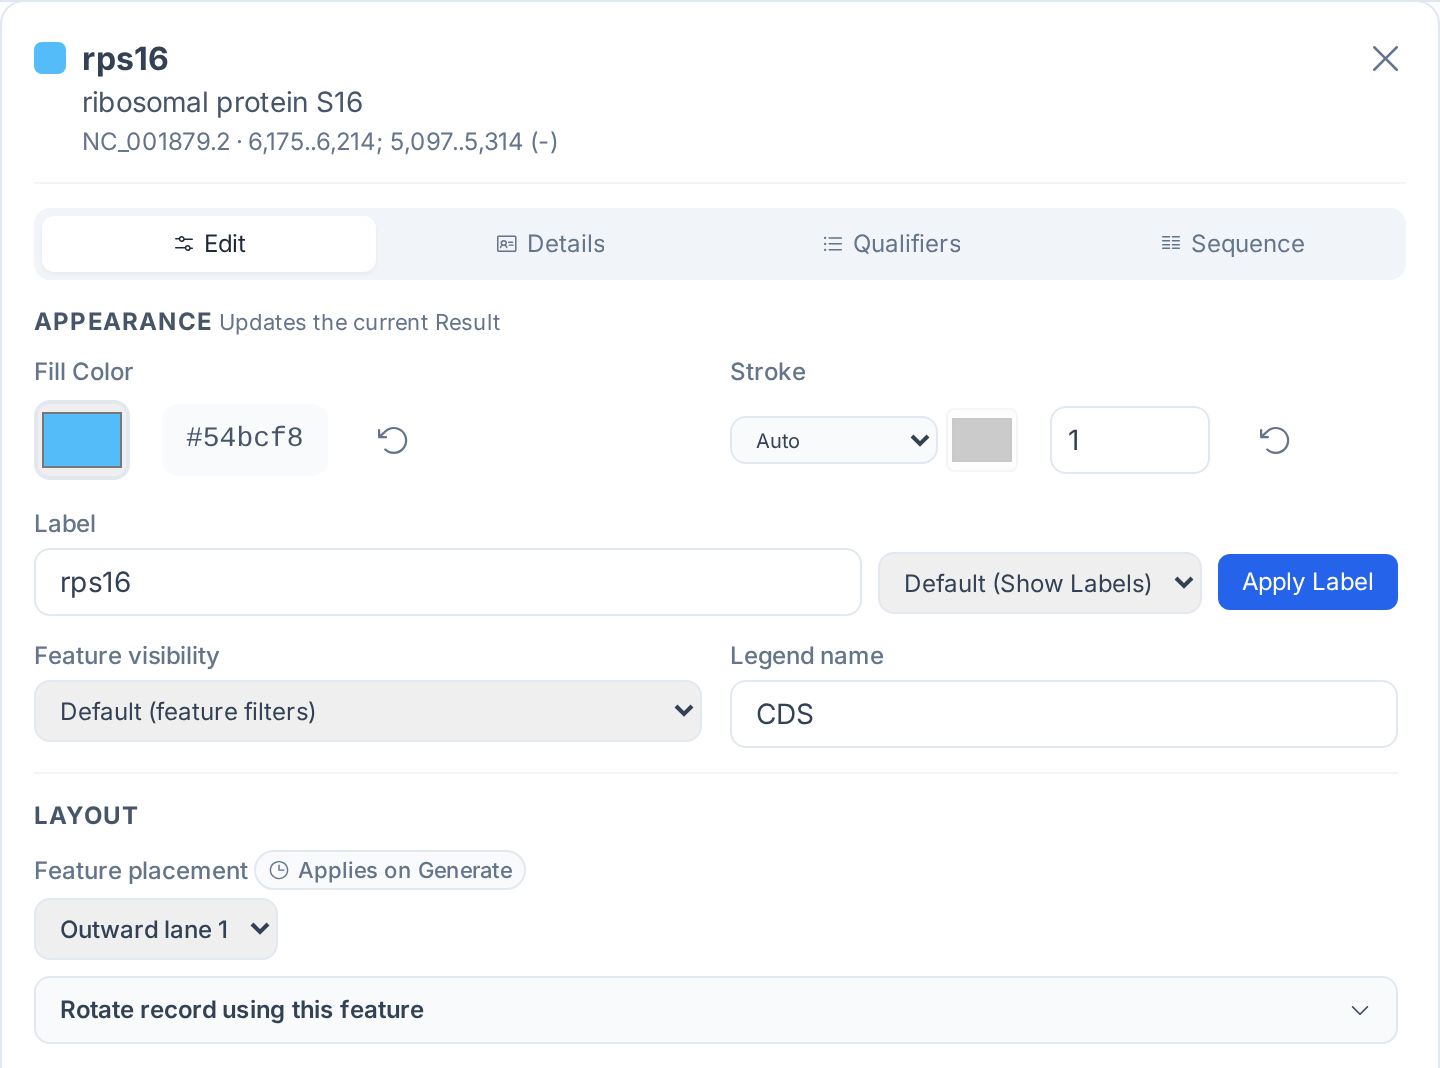
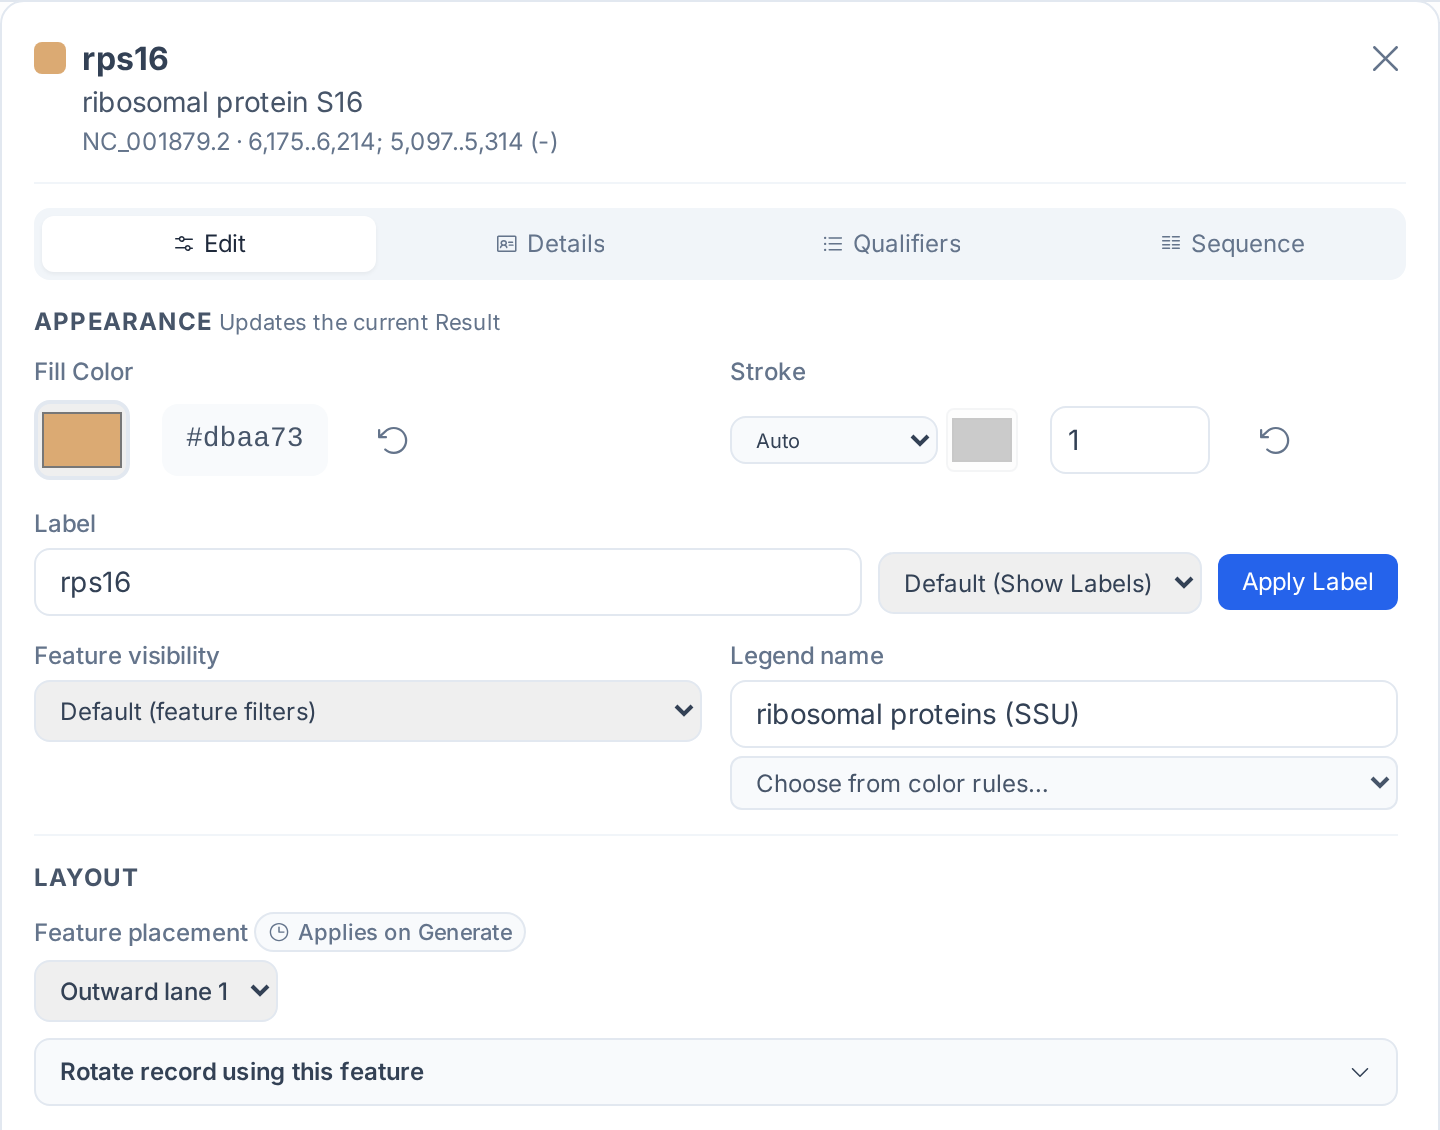
Keep a Specific rules import when another file is uploaded meanwhile
A Specific rules import read the rule inputs when its file was selected,
and those inputs include the other auxiliary files. A Priority File (or
Default colors, Whitelist, Blacklist) uploaded while the import still
applied made it stale, and it resolved without applying its rules or
reporting anything, so Generate drew without them (OV-1205; H-GUI-16
showed rps16 in the default CDS color). The import now reads the rule
inputs when it applies, after the imports queued before it; inputs that
change while it applies run it again, and an import that still cannot
apply unselects its file.

Review follow-ups of #1186: the pending auxiliary imports get one owner,
createAuxiliaryFileImports, which the composition root creates before
Generate, Save/Load and the watchers read it (no forward closure, R13);
the pinning Playwright case reads the request build start instead of a
5-second Worker check and asserts the Specific rules are applied. The
H-GUI-16 feature placement image is regenerated with its flow.

diff --git a/gbdraw/web/js/app/watchers.js b/gbdraw/web/js/app/watchers.js
@@ -1,7 +1,7 @@
 // @ts-check
 /** @import { DrawingState, LinearSeq, SessionBusy } from '../state.js' */
 /** @import { MountedResultContext, MountedResultContextOptions } from './preview-runtime.js' */
-/** @import { RulePreparation } from './rule-matching.js' */
+/** @import { RulePreparation, RuleInputsSnapshot } from './rule-matching.js' */
 import { normalizeUserFacingError } from '../utils/error-normalization.js';
 import {
   parseBlacklistWords,
@@ -43,6 +43,34 @@ export const runRecordDiscoveryWatcher = async ({
 };
 
 /**
+ * The auxiliary file imports still applying (OV-1193). The file watchers add
+ * them; Save and Load read whether one is pending, and Generate waits for them.
+ * The composition root creates it before both readers.
+ * @typedef {object} AuxiliaryFileImports
+ * @property {Map<FileLike, Promise<boolean>>} pending Each selected file's import, until it settles.
+ * @property {(file: FileLike) => Promise<boolean> | undefined} wait The import of `file`, while it applies.
+ * @property {() => boolean} isPending
+ * @property {() => Promise<void>} settle Waits until no import is pending, including one that starts meanwhile.
+ */
+
+/**
+ * @param {<T extends object>(target: T) => T} reactive Vue `reactive`, so the readers' computeds follow the imports.
+ * @returns {AuxiliaryFileImports}
+ */
+export const createAuxiliaryFileImports = (reactive) => {
+  /** @type {Map<FileLike, Promise<boolean>>} */
+  const pending = reactive(new Map());
+  return {
+    pending,
+    wait: (file) => pending.get(file),
+    isPending: () => pending.size > 0,
+    settle: async () => {
+      while (pending.size > 0) await Promise.allSettled([...pending.values()]);
+    }
+  };
+};
+
+/**
  * The members of the preview owner's runtime (app/preview-runtime.js) that the
  * mounted-Result watcher reads.
  * @typedef {object} WatchersPreviewRuntime
@@ -55,6 +83,7 @@ export const runRecordDiscoveryWatcher = async ({
  * @typedef {object} WatchersOptions
  * @property {Record<string, any>} state App state (state.js; not yet typed).
  * @property {RulePreparation} rulePreparation
+ * @property {AuxiliaryFileImports} auxiliaryFileImports The imports still applying, which the file watchers add.
  * @property {(value?: any) => { value: any }} ref Vue `ref`.
  * @property {(getter: () => any) => { readonly value: any }} computed Vue `computed`.
  * @property {(source: any, callback: (...args: any[]) => any, options?: Record<string, any>) => any} watch Vue `watch`.
@@ -86,6 +115,7 @@ export const runRecordDiscoveryWatcher = async ({
 export const setupWatchers = ({
   state,
   rulePreparation,
+  auxiliaryFileImports,
   ref, computed, watch,
   nextTick,
   onMounted,
@@ -333,8 +363,7 @@ export const setupWatchers = ({
     const busy = state.sessionOperationAvailability?.();
     return busy || (canRetryAuxiliaryImportFailure.value ? auxiliaryImportFailure.value.retry() : false);
   };
-  /** @type {Map<FileLike, Promise<boolean>>} */
-  const pendingFileImports = window.Vue.reactive(new Map());
+  const pendingFileImports = auxiliaryFileImports.pending;
   /** @type {Promise<any>} */
   let fileImportApplications = Promise.resolve();
   /** @type {Map<string, FileLike | null | undefined>} */
@@ -358,13 +387,15 @@ export const setupWatchers = ({
     restoredFileSelections.delete(key);
     if (restored) return;
     if (semanticFileWatchersSuppressed.value || !file) return;
-    const ruleContext = key === 't_color' ? rulePreparation.snapshot() : null;
-    const isCurrent = () => files[key] === file && !semanticFileWatchersSuppressed.value
-      && !state.sessionOperationAvailability?.()
-      && (!ruleContext || rulePreparation.isCurrent(ruleContext));
+    const isSelected = () => files[key] === file && !semanticFileWatchersSuppressed.value
+      && !state.sessionOperationAvailability?.();
+    // The rule inputs the Specific rules import applies to, read as it applies.
+    /** @type {RuleInputsSnapshot | null} */
+    let ruleContext = null;
+    const isCurrent = () => isSelected() && (!ruleContext || rulePreparation.isCurrent(ruleContext));
     const previousError = errorLog.value;
     const retainFailure = () => {
-      auxiliaryImportFailure.value = { error: errorLog.value, key, selection: files[key], snapshot: ruleContext ? rulePreparation.snapshot() : null,
+      auxiliaryImportFailure.value = { error: errorLog.value, key, selection: files[key], snapshot: key === 't_color' ? rulePreparation.snapshot() : null,
         retry: async () => {
           if (files[key] === file) return applyFileImport(key, apply, file, previousFile);
           files[key] = file;
@@ -375,13 +406,21 @@ export const setupWatchers = ({
     const pending = readFileText(file).then((text) => {
       // Reads may finish out of order; serialize only their live application.
       const application = fileImportApplications.then(async () => {
-        if (!isCurrent()) return false;
-        if (await apply(text, isCurrent) === false && isCurrent()) {
+        if (!isSelected()) return false;
+        // OV-1205: the rule inputs are read when the import applies, after the
+        // imports queued before it, so a file uploaded meanwhile does not make
+        // it stale. Inputs that change while it applies run it again on the
+        // current ones; an import that cannot apply unselects its file.
+        for (let attempt = 0; ; attempt += 1) {
+          ruleContext = key === 't_color' ? rulePreparation.snapshot() : null;
+          if (await apply(text, isCurrent) !== false || !isSelected()) break;
+          if (!isCurrent() && attempt < 2) continue;
           restoredFileSelections.set(key, previousFile);
           files[key] = previousFile;
           if (errorLog.value !== previousError) retainFailure();
           return false;
-        } else if (files[key] === file && errorLog.value === auxiliaryImportFailure.value?.error) {
+        }
+        if (files[key] === file && errorLog.value === auxiliaryImportFailure.value?.error) {
           errorLog.value = null;
           auxiliaryImportFailure.value = null;
         }
@@ -390,7 +429,7 @@ export const setupWatchers = ({
       fileImportApplications = application.catch(() => {});
       return application;
     }).catch((error) => {
-      if (isCurrent() && errorLog.value === previousError) {
+      if (isSelected() && errorLog.value === previousError) {
         errorLog.value = normalizeUserFacingError(error, { operation: key === 't_color' ? 'evaluateRules' : 'unknown', stage: 'resource-staging' });
         restoredFileSelections.set(key, previousFile);
         files[key] = previousFile;
@@ -409,14 +448,6 @@ export const setupWatchers = ({
    * @param {FileImportApply} apply
    */
   const watchFileImport = (key, apply) => watch(() => files[key], (file, previousFile) => applyFileImport(key, apply, file, previousFile));
-  /** @param {FileLike} file */
-  const waitForAuxiliaryFileImport = (file) => pendingFileImports.get(file);
-  // Generate reads the drawing once every import still applying has settled,
-  // including one that starts meanwhile (OV-1193).
-  /** @returns {Promise<void>} */
-  const settleAuxiliaryFileImports = async () => {
-    while (pendingFileImports.size > 0) await Promise.allSettled([...pendingFileImports.values()]);
-  };
 
   watchFileImport('d_color', (text) => {
     const drawing = state.activeDrawing();
@@ -555,5 +586,5 @@ export const setupWatchers = ({
       console.warn('Could not load browser palette definitions.', normalizeUserFacingError(error, { stage: 'initialization' }));
     }
   });
-  return { waitForAuxiliaryFileImport, settleAuxiliaryFileImports, auxiliaryFileImportPending: () => pendingFileImports.size > 0, canRetryAuxiliaryImportFailure, retryAuxiliaryImportFailure, resetModeTransientUi };
+  return { canRetryAuxiliaryImportFailure, retryAuxiliaryImportFailure, resetModeTransientUi };
 };

diff --git a/tests/web/auxiliary-file-history.playwright.spec.js b/tests/web/auxiliary-file-history.playwright.spec.js
@@ -67,7 +67,8 @@ test('a slow earlier specific table cannot overwrite a later uploaded table', as
 
 // H-GUI-16: a Specific rules import still applying keeps History's checkpoint
 // open, so a Priority File uploaded meanwhile is no History step; Generate
-// pressed at once must still wait for both imports.
+// pressed at once must still wait for both imports (OV-1193), and the Priority
+// upload must not discard the Specific rules import (OV-1205).
 test('Generate waits for the Specific rules and Priority File imports still applying (OV-1193)', async ({ browser }) => {
   const page = await load(browser);
   await page.evaluate(() => {
@@ -92,6 +93,8 @@ test('Generate waits for the Specific rules and Priority File imports still appl
   await upload('Specific rules file', 'held-rules.tsv', 'CDS\tproduct\tNADH\t#123456\tImported\n');
   await upload('Priority File (TSV)', 'held-priority.tsv', 'CDS\tgene,product\n');
   const key = await page.evaluate(async () => (await import('./js/state.js')).state.resultGenerationKey.value);
+  const generateStarts = () => page.evaluate(() => window.__MODE_EVENTS__.filter((event) => event.name === 'generate-start').length);
+  const startsBefore = await generateStarts();
   await page.getByRole('button', { name: 'Generate Diagram', exact: true }).click();
   // The click is honoured: Generate shows its processing state while the imports apply.
   await expect.poll(() => page.evaluate(() => window.__GBDRAW_APP__.processing)).toBe(true);
@@ -100,16 +103,21 @@ test('Generate waits for the Specific rules and Priority File imports still appl
     window.__RELEASE__['held-rules.tsv']();
     await a.waitForAuxiliaryFileImport(a.files.t_color);
   });
-  // Without the wait, Generate sends its request once the rules apply (within
-  // seconds); it must send nothing while the Priority File still applies.
-  await page.waitForFunction(() => window.__RUN_RESOURCES__.length > 0, null, { timeout: 5000 }).catch(() => {});
-  expect(await page.evaluate(() => window.__RUN_RESOURCES__)).toEqual([]);
+  // Generate starts building its request only after the Priority File applies;
+  // one that did not wait would start once the rules applied (`generate-start`).
+  await page.waitForFunction((before) => window.__MODE_EVENTS__.filter((event) => event.name === 'generate-start').length > before,
+    startsBefore, { timeout: 5000 }).catch(() => {});
+  expect(await generateStarts()).toBe(startsBefore);
   await page.evaluate(() => window.__RELEASE__['held-priority.tsv']());
   await expect.poll(() => page.evaluate(async () => {
     const { state } = await import('./js/state.js');
     return { key: state.resultGenerationKey.value, processing: state.processing.value, error: state.errorLog.value };
   }), { timeout: 180000 }).toEqual({ key: key + 1, processing: false, error: null });
   // The first render request is the Generate's; a later rerender may follow it.
-  expect(await page.evaluate(() => window.__RUN_RESOURCES__[0])).toEqual(expect.arrayContaining(['qualifier-priority-file']));
-  expect(await page.evaluate(() => JSON.parse(JSON.stringify(window.__GBDRAW_APP__.manualPriorityRules)))).toEqual([{ feat: 'CDS', order: 'gene,product' }]);
+  expect(await page.evaluate(() => window.__RUN_RESOURCES__[0]))
+    .toEqual(expect.arrayContaining(['colors-color-table-file', 'qualifier-priority-file']));
+  expect(await page.evaluate(() => {
+    const a = window.__GBDRAW_APP__;
+    return { priority: JSON.parse(JSON.stringify(a.manualPriorityRules)), rules: a.manualSpecificRules.map((rule) => rule.cap) };
+  })).toEqual({ priority: [{ feat: 'CDS', order: 'gene,product' }], rules: ['Imported'] });
 });

diff --git a/gbdraw/web/js/app/app-setup.js b/gbdraw/web/js/app/app-setup.js
@@ -158,7 +158,7 @@ import {
   storedLegendSideIsOfMode
 } from './legend-layout/composition-actions.js';
 import { createResultsManager } from './results.js';
-import { setupWatchers } from './watchers.js';
+import { createAuxiliaryFileImports, setupWatchers } from './watchers.js';
 import { createDialogChoice, setupHistoryInputs } from './history-inputs.js';
 import { createChoicePrompt, createNoticeBanner } from './app-messages.js';
 import { setupHistoryShortcuts } from './history-shortcuts.js';
@@ -2941,6 +2941,9 @@ export const createAppSetup = () => {
       await Promise.allSettled([...pendingComparisonRecordLabels]);
     }
   };
+  // The auxiliary file imports still applying: the watchers add them, Save and
+  // Load read them, and Generate waits for them (OV-1193).
+  const auxiliaryFileImports = createAuxiliaryFileImports(reactive);
   /** @param {Event & { target: HTMLInputElement }} event */
   const addCircularConservationComparisonFile = (event) => {
     const drawing = state.drawings.circular;
@@ -3316,10 +3319,9 @@ export const createAppSetup = () => {
   } = createRunAnalysis({
     state,
     rulePreparation,
-    // The watchers below own the auxiliary file imports; Generate runs after setup.
     settlePendingInputs: async () => {
       await settleComparisonRecordLabels();
-      await settleAuxiliaryFileImports();
+      await auxiliaryFileImports.settle();
     },
     isCurrentFeature: isCurrentResultFeature,
     serializeCanonicalFiles: (comparisonPlanSnapshot, linearRecordCatalog, drawing) => (
@@ -3483,11 +3485,11 @@ export const createAppSetup = () => {
     }
   });
   const {
-    waitForAuxiliaryFileImport, settleAuxiliaryFileImports, auxiliaryFileImportPending, canRetryAuxiliaryImportFailure,
-    retryAuxiliaryImportFailure, resetModeTransientUi
+    canRetryAuxiliaryImportFailure, retryAuxiliaryImportFailure, resetModeTransientUi
   } = setupWatchers({
     state,
     rulePreparation,
+    auxiliaryFileImports,
     ref, computed, watch,
     nextTick,
     onMounted,
@@ -3518,7 +3520,7 @@ export const createAppSetup = () => {
   // here, so the root composes the availability that Save, Load, and their
   // controls read (R13).
   const sessionPreparationBusyReason = () => (
-    history.mutationPending() || ruleMatchingBlocking.value || auxiliaryFileImportPending()
+    history.mutationPending() || ruleMatchingBlocking.value || auxiliaryFileImports.isPending()
       ? 'Applying an edit. Retry after the edit finishes.'
       : ''
   );
@@ -7143,7 +7145,7 @@ export const createAppSetup = () => {
     openOrthogroupInDrawer,
     circularRecordList,
     refreshCircularRecordOrder,
-    waitForAuxiliaryFileImport, canRetryAuxiliaryImportFailure,
+    waitForAuxiliaryFileImport: auxiliaryFileImports.wait, canRetryAuxiliaryImportFailure,
     retryAuxiliaryImportFailure: () => history.runUndoableCheckpoint('Change uploaded file', retryAuxiliaryImportFailure, { shouldCommit: result => result !== false }),
     circularRecordPresentationOptions,
     circularRecordPresentationError,
